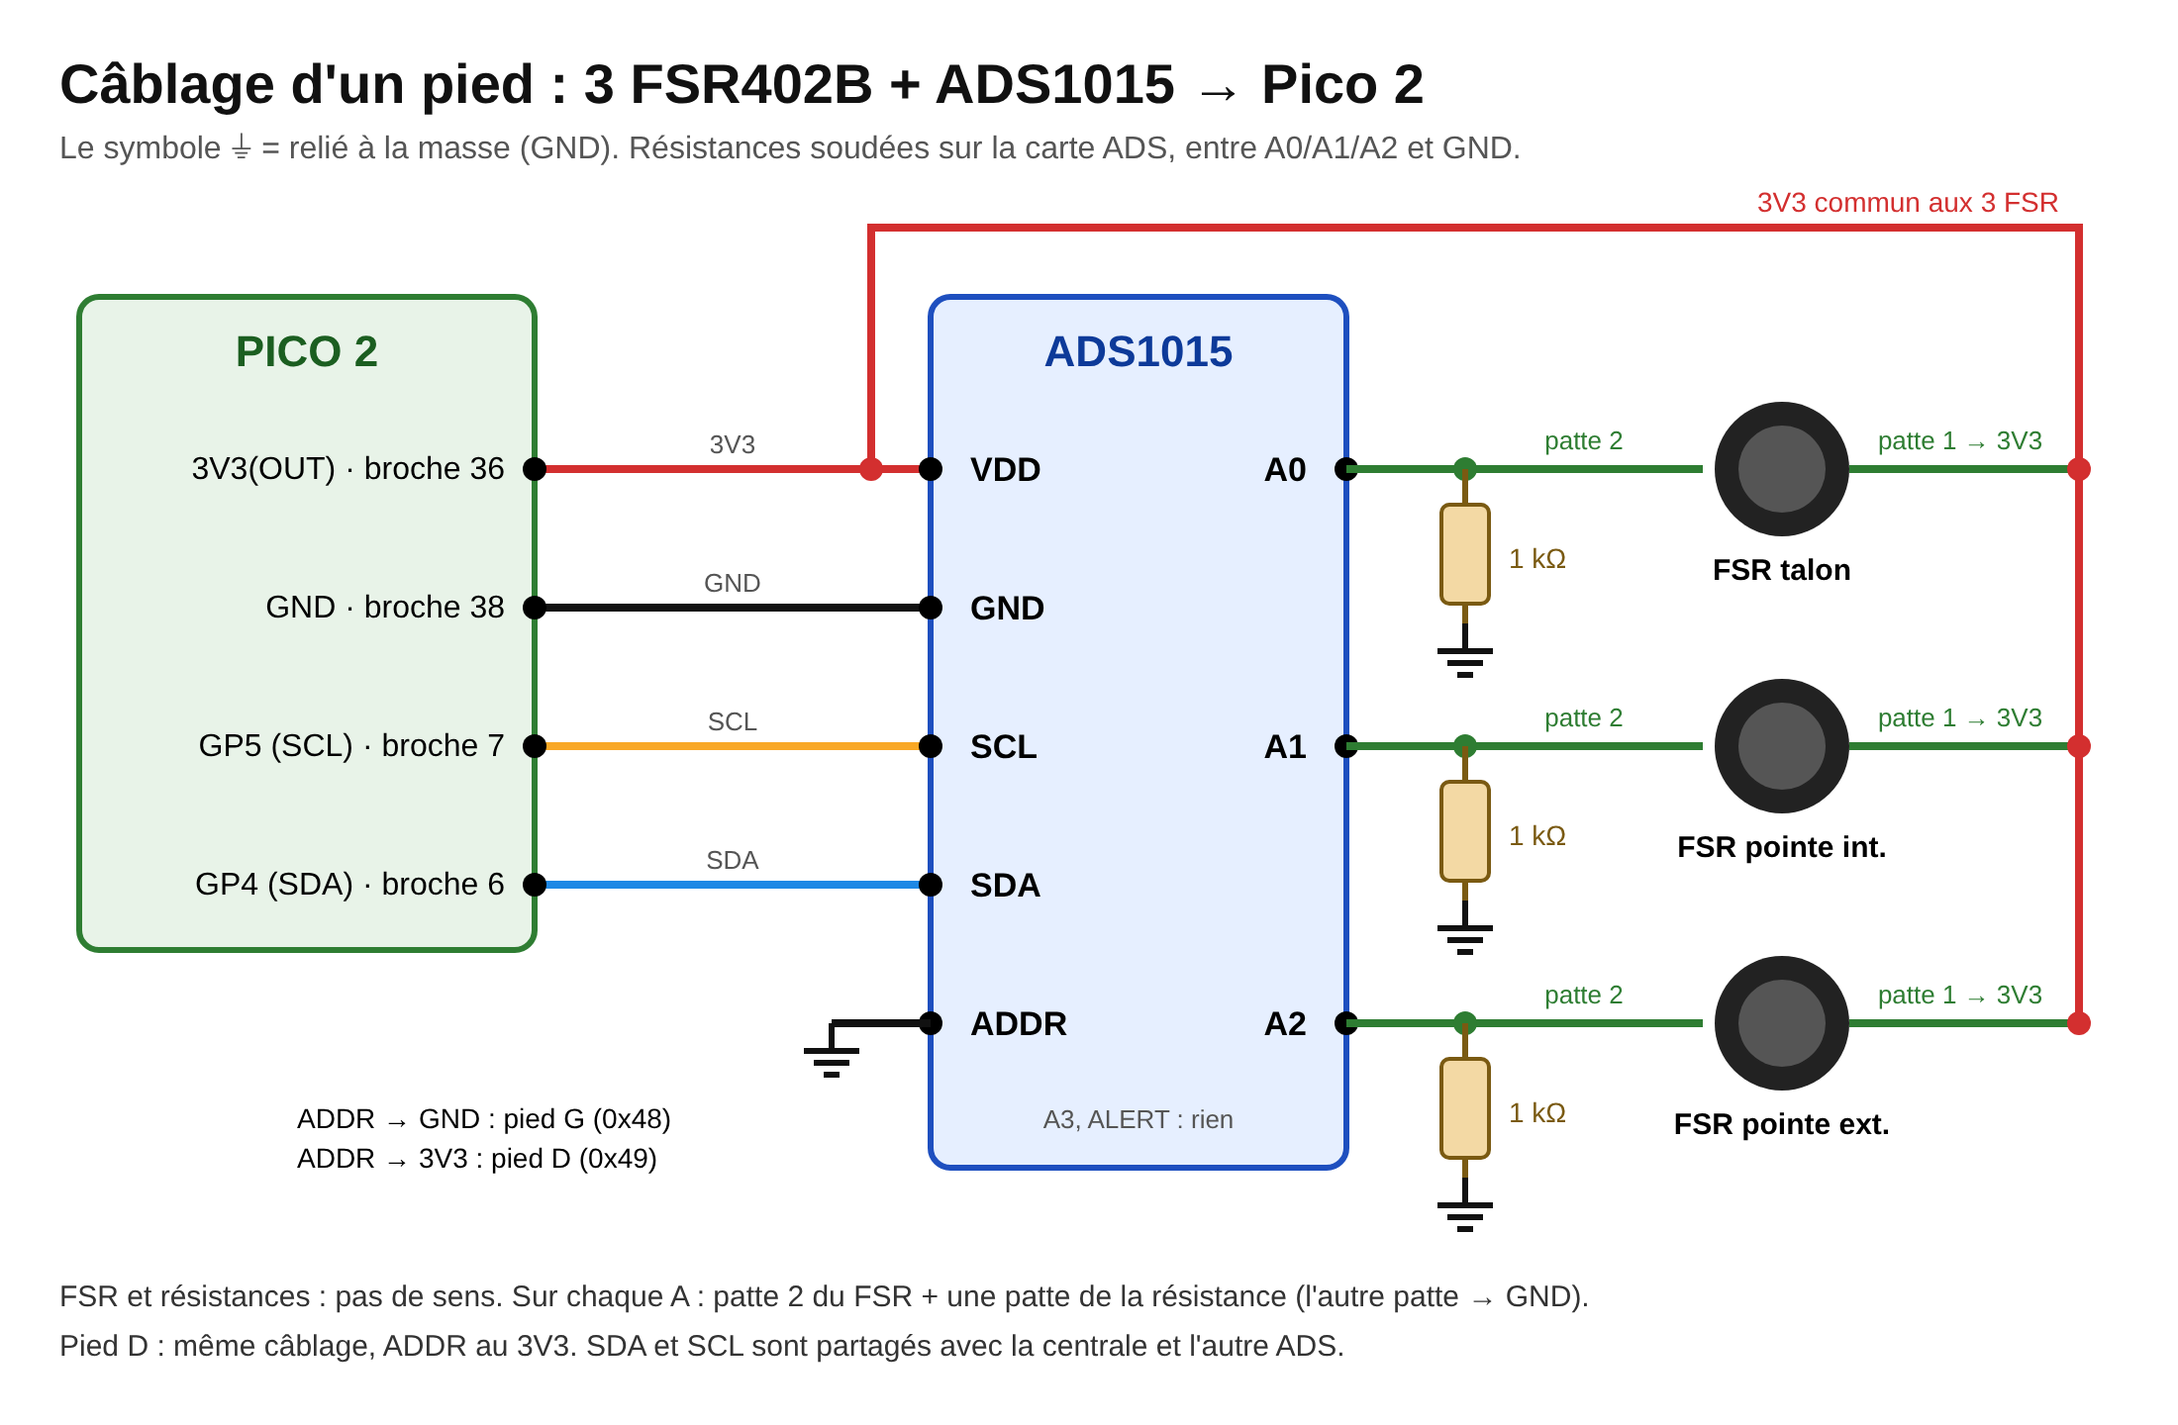
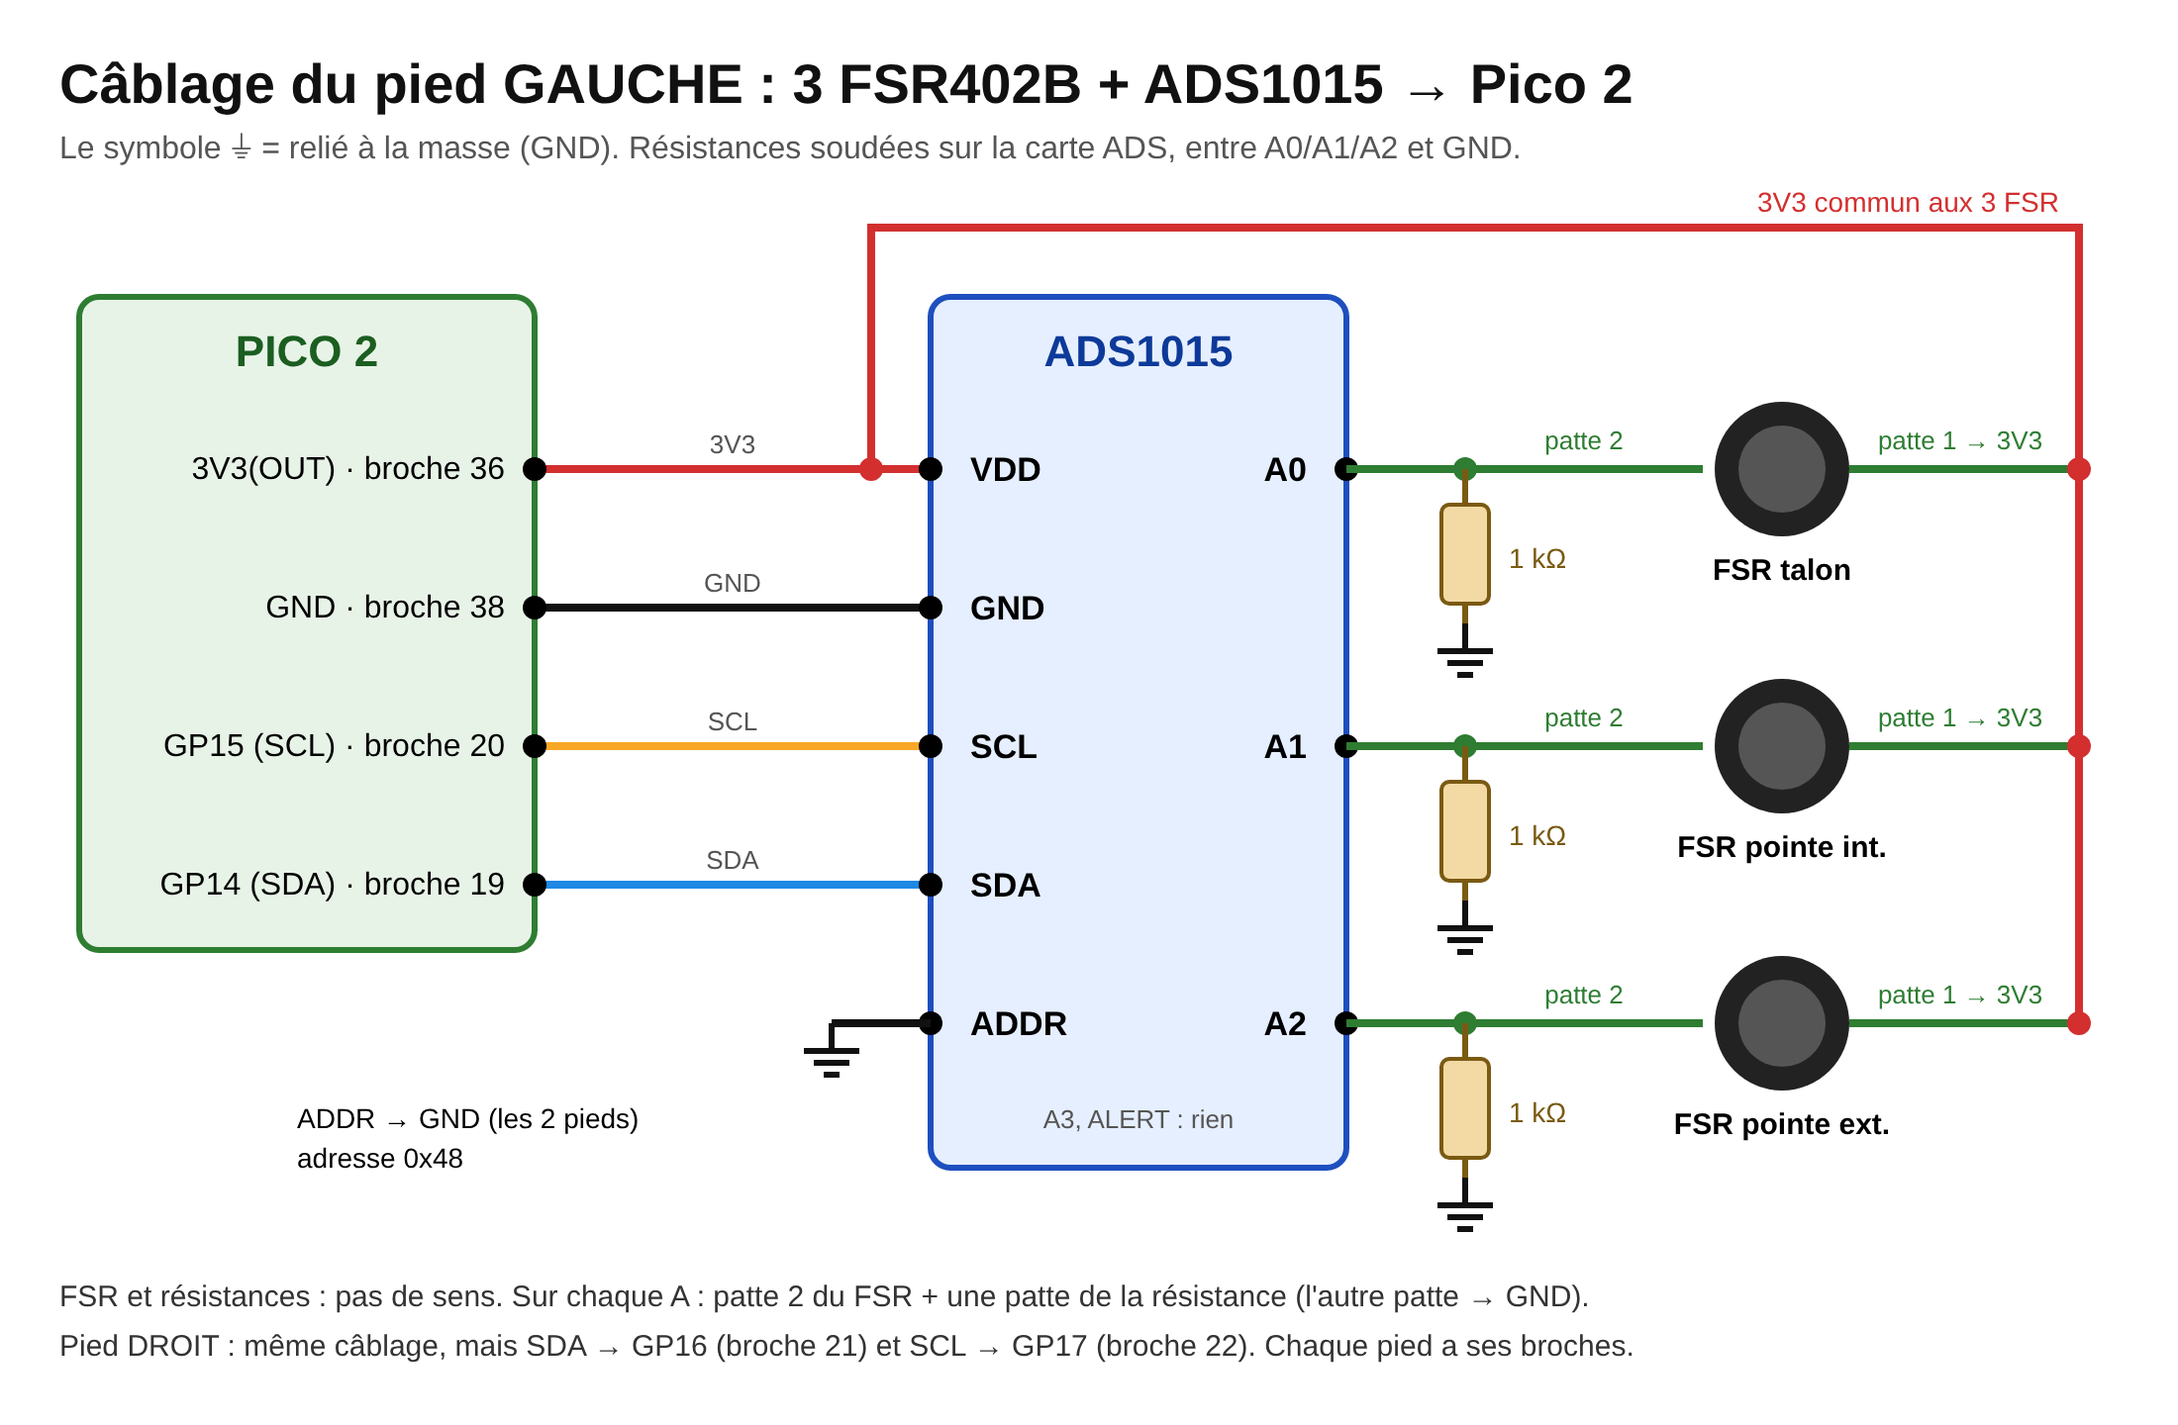
Un bus I²C par élément : centrale GP4/5, pied G GP14/15 (I²C1), pied D GP16/17 (logiciel) ; ADS1015 tous en 0x48
Claude-Session: https://claude.ai/code/session_01LXh7wU6ftDdbJqfPx2fvTi

diff --git a/docs/schema_electrique.html b/docs/schema_electrique.html
@@ -96,7 +96,7 @@ td code, .mono { font: 12.5px var(--mono); }
   <div class="cartouche" aria-label="Cartouche">
     <span>Projet</span><span>LEO-S bipède</span>
     <span>Planche</span><span>Électrique · 1/1</span>
-    <span>Rév.</span><span>J · 01/11/2026</span>
+    <span>Rév.</span><span>J2 · 09/11/2026</span>
   </div>
 </header>
 
@@ -184,8 +184,8 @@ td code, .mono { font: 12.5px var(--mono); }
 <g class="box act"><rect x="650" y="358" width="170" height="38" rx="4"/><text x="660" y="377" class="bt">2 micro-servos MG90S</text><text x="660" y="392" class="bs">cou : pan / tilt</text></g>
 <g class="box sens"><rect x="650" y="446" width="170" height="40" rx="4"/><text x="660" y="465" class="bt">MPU6050</text><text x="660" y="480" class="bs">centrale inertielle</text></g>
 <g class="box sens"><rect x="868" y="446" width="150" height="40" rx="4"/><text x="878" y="465" class="bt">2 × ToF VL53L8CX</text><text x="878" y="480" class="bs">bas · 0x30 / 0x31</text></g>
-<g class="box sens"><rect x="650" y="498" width="170" height="40" rx="4"/><text x="660" y="517" class="bt">ADS1015 pied G</text><text x="660" y="532" class="bs">3 voies sur 4</text></g>
-<g class="box sens"><rect x="650" y="550" width="170" height="40" rx="4"/><text x="660" y="569" class="bt">ADS1015 pied D</text><text x="660" y="584" class="bs">3 voies sur 4</text></g>
+<g class="box sens"><rect x="650" y="498" width="170" height="40" rx="4"/><text x="660" y="517" class="bt">ADS1015 pied G</text><text x="660" y="532" class="bs">I²C1 GP14/15 · 0x48</text></g>
+<g class="box sens"><rect x="650" y="550" width="170" height="40" rx="4"/><text x="660" y="569" class="bt">ADS1015 pied D</text><text x="660" y="584" class="bs">I²C GP16/17 · 0x48</text></g>
 <g class="box sens"><rect x="868" y="498" width="150" height="40" rx="4"/><text x="878" y="517" class="bt">3 × FSR402B</text><text x="878" y="532" class="bs">semelle G · pont 1 kΩ</text></g>
 <g class="box sens"><rect x="868" y="550" width="150" height="40" rx="4"/><text x="878" y="569" class="bt">3 × FSR402B</text><text x="878" y="584" class="bs">semelle D · pont 1 kΩ</text></g>
 <g class="box cpu"><rect x="650" y="608" width="170" height="44" rx="4"/><text x="660" y="627" class="bt">Récepteur FS-iA6B</text><text x="660" y="642" class="bs">radio FlySky</text></g>
@@ -204,7 +204,7 @@ td code, .mono { font: 12.5px var(--mono); }
 <text x="350" y="246" class="pin">SPI0 CE0 / CE1 · CSI</text>
 <text x="350" y="264" class="pin">PWM · GPIO 12/13 (cou)</text>
 <text x="350" y="282" class="pin">USB → Pico · 5 V broches 2/4</text>
-<text x="350" y="494" class="pin">I²C0 · GP4/GP5</text>
+<text x="350" y="494" class="pin">I²C GP4/5 · GP14/15 · GP16/17</text>
 <text x="350" y="512" class="pin">DShot · GP6–GP9 · LPn GP10/11</text>
 <text x="350" y="530" class="pin">UART1 bus servo · GP20/GP21</text>
 <text x="350" y="548" class="pin">iBUS · RX GP1</text>
@@ -226,8 +226,6 @@ td code, .mono { font: 12.5px var(--mono); }
 <text x="578" y="371" text-anchor="middle" class="wl wpwmt">PWM</text>
 <text x="585" y="512" text-anchor="middle" class="wl wi2ct">I²C</text>
 <text x="630" y="460" text-anchor="middle" class="wl wi2ct">0x68</text>
-<text x="630" y="512" text-anchor="middle" class="wl wi2ct">0x48</text>
-<text x="630" y="564" text-anchor="middle" class="wl wi2ct">0x49</text>
 <text x="456" y="614" text-anchor="start" class="wl wuartt">DShot × 4</text>
 <text x="591" y="600" text-anchor="start" class="wl wuartt">iBUS</text>
 </svg>
@@ -309,7 +307,9 @@ td code, .mono { font: 12.5px var(--mono); }
   <div class="tbl"><table>
     <thead><tr><th>Fonction</th><th>Broches</th><th>Branché sur</th></tr></thead>
     <tbody>
-      <tr><td>I²C0</td><td class="mono">SDA GP4 · SCL GP5</td><td>MPU6050 0x68, ADS1015 0x48 / 0x49, ToF bas 0x30 / 0x31</td></tr>
+      <tr><td>I²C0</td><td class="mono">SDA GP4 · SCL GP5</td><td>MPU6050 0x68, ToF bas 0x30 / 0x31</td></tr>
+      <tr><td>I²C1</td><td class="mono">SDA GP14 · SCL GP15</td><td>ADS1015 du pied G (0x48)</td></tr>
+      <tr><td>I²C logiciel</td><td class="mono">SDA GP16 · SCL GP17</td><td>ADS1015 du pied D (0x48) ; un bus par pied, un câble 4 fils par jambe</td></tr>
       <tr><td>LPn ToF</td><td class="mono">GP10 · GP11</td><td>allumage un par un au démarrage pour changer leur adresse (0x29 d'usine)</td></tr>
       <tr><td>DShot (PIO)</td><td class="mono">GP6 · GP7 · GP8 · GP9</td><td>ESC 4-en-1, moteurs 1 à 4</td></tr>
       <tr><td>Récepteur</td><td class="mono">VBUS (5 V) · GND</td><td>alimentation du FS-iA6B</td></tr>

diff --git a/pico/lib/brochage.py b/pico/lib/brochage.py
@@ -1,9 +1,13 @@
 # brochage.py – broches, adresses et réglages du Pico 2 de LEO-S (schéma électrique rév. J).
 # Seul fichier à modifier quand un branchement ou une calibration change.
-from machine import Pin, I2C, UART
+from machine import Pin, I2C, SoftI2C, UART
 
 # ── Broches ───────────────────────────────────────────────────────────────────
-I2C_ID, SDA, SCL, I2C_FREQ = 0, 4, 5, 400000          # MPU6050, ADS1015 ×2, ToF bas
+# Un bus I²C par élément, chacun sur ses broches : (contrôleur, SDA, SCL). "soft" = bus logiciel.
+BUS_I2C = {"imu": (0, 4, 5),                           # MPU6050 (et plus tard les ToF bas)
+           "G": (1, 14, 15),                           # ADS1015 du pied gauche
+           "D": ("soft", 16, 17)}                      # ADS1015 du pied droit
+I2C_FREQ = 400000
 UART_SERVOS, SERVO_TX, SERVO_RX = 1, 20, 21            # adaptateur bus servo, cavalier sur A
 SERVO_BAUD = 1000000
 UART_RADIO, RADIO_TX, RADIO_RX = 0, 0, 1               # FS-iA6B en iBUS (GP0 non branché)
@@ -13,9 +17,9 @@ TOF_LPN = (10, 11)                                     # ToF bas (vague 3)
 
 # ── Adresses I²C ──────────────────────────────────────────────────────────────
 MPU = 0x68
-PIEDS = {"G": 0x48, "D": 0x49}                         # ADS1015 : ADDR à GND (G), à 3V3 (D)
-NOMS_I2C = {0x68: "MPU6050", 0x69: "MPU6050 (AD0 au 3V3 ?)", 0x48: "ADS1015 pied G",
-            0x49: "ADS1015 pied D", 0x4A: "ADS1015 (ADDR sur SDA ?)", 0x4B: "ADS1015 (ADDR sur SCL ?)",
+PIEDS = {"G": 0x48, "D": 0x48}                         # ADS1015 : ADDR à GND sur les deux (bus séparés)
+NOMS_I2C = {0x68: "MPU6050", 0x69: "MPU6050 (AD0 au 3V3 ?)", 0x48: "ADS1015",
+            0x49: "ADS1015 (ADDR au 3V3)", 0x4A: "ADS1015 (ADDR sur SDA ?)", 0x4B: "ADS1015 (ADDR sur SCL ?)",
             0x29: "ToF (adresse d'usine)", 0x30: "ToF bas 1", 0x31: "ToF bas 2"}
 
 # ── Capteurs de pied ──────────────────────────────────────────────────────────
@@ -42,8 +46,15 @@ ARRET_SI_HAUT = True                                   # interrupteur vers le ha
 PERTE_RADIO_MS = 100                                   # plus de trame depuis 100 ms = ARRÊT
 
 
+def bus_i2c(nom):
+    ctrl, sda, scl = BUS_I2C[nom]
+    if ctrl == "soft":
+        return SoftI2C(sda=Pin(sda), scl=Pin(scl), freq=I2C_FREQ)
+    return I2C(ctrl, sda=Pin(sda), scl=Pin(scl), freq=I2C_FREQ)
+
+
 def i2c():
-    return I2C(I2C_ID, sda=Pin(SDA), scl=Pin(SCL), freq=I2C_FREQ)
+    return bus_i2c("imu")
 
 
 def uart_servos():

diff --git a/pico/test_sim.py b/pico/test_sim.py
@@ -161,17 +161,23 @@ class FausseUART:
 
 
 class FauxI2C:
-    def __init__(self, *a, **kw):
-        pass
+    def __init__(self, ctrl=None, sda=None, scl=None, freq=None):
+        self.cle = sda.n if sda is not None else ctrl                # le bus est identifié par sa broche SDA
+        self.dev = M.i2c.setdefault(self.cle, {})
 
     def scan(self):
-        return sorted(M.i2c)
+        return sorted(self.dev)
 
     def readfrom_mem(self, adr, reg, n):
-        return M.i2c[adr].lire(reg, n)
+        return self.dev[adr].lire(reg, n)
 
     def writeto_mem(self, adr, reg, data):
-        M.i2c[adr].ecrire(reg, data)
+        self.dev[adr].ecrire(reg, data)
+
+
+class FauxSoftI2C(FauxI2C):
+    def __init__(self, sda=None, scl=None, freq=None):
+        FauxI2C.__init__(self, None, sda, scl, freq)
 
 
 class FauxADC:
@@ -185,7 +191,8 @@ class FauxADC:
 class FauxPin:
     OUT, IN = 1, 0
 
-    def __init__(self, *a, **kw):
+    def __init__(self, n=None, *a, **kw):
+        self.n = n
         self.v = 0
 
     def value(self, v=None):
@@ -205,6 +212,7 @@ class FauxPin:
 
 machine = types.ModuleType("machine")
 machine.Pin, machine.I2C, machine.UART, machine.ADC = FauxPin, FauxI2C, FausseUART, FauxADC
+machine.SoftI2C = FauxSoftI2C
 machine.freq = lambda: 150000000
 sys.modules["machine"] = machine
 
@@ -224,11 +232,11 @@ def test():
     import brochage as B
 
     mpu, g, d = FauxMPU(), FauxADS(), FauxADS()
-    M.i2c = {0x68: mpu, 0x48: g, 0x49: d}
+    M.i2c = {4: {0x68: mpu}, 14: {0x48: g}, 16: {0x48: d}}     # un bus par élément (clé = broche SDA)
 
     # 1 – scan I²C
-    adrs, out = silencieux(etape1_pico.main)
-    assert adrs == [0x48, 0x49, 0x68] and "MPU6050" in out and "pied D" in out, out
+    trouve, out = silencieux(etape1_pico.main)
+    assert trouve == {"imu": [0x68], "G": [0x48], "D": [0x48]} and "MPU6050" in out and "pied D" in out, out
 
     # 2 – MPU6050 : biais, puis inclinaison
     biais, out = silencieux(etape2_mpu.main, tours=30)
@@ -241,7 +249,7 @@ def test():
 
     # 4 – pieds : lecture directe, puis pesées et conseil de résistance
     _, out = silencieux(etape4_pieds.main, tours=2)
-    assert "pied G (0x48)" in out and "pied D (0x49)" in out and "1.65V" in out, out
+    assert "pied G, pied D" in out and "1.65V" in out, out
     assert abs(r_fsr(1.65, 1000) - 1000) < 1 and r_fsr(0.0, 1000) is None
     fsr = {"0.5": 2000, "2": 500}                         # FSR à 0,5 kg puis 2 kg
 

diff --git a/pico/etape4_pieds.py b/pico/etape4_pieds.py
@@ -1,6 +1,7 @@
 # Étape 4 – FSR402B + ADS1015 : lecture des appuis, puis choix de la résistance du pont par des pesées.
 # Chaque FSR : une patte au 3V3, l'autre sur A0/A1/A2 de l'ADS1015 ET sur la résistance R_FSR vers la masse.
-# ADS1015 : VDD → 3V3, GND, SCL → GP5, SDA → GP4, ADDR → GND (pied G, 0x48) ou → 3V3 (pied D, 0x49).
+# ADS1015 : VDD → 3V3, GND, ADDR → GND. Chaque pied a son bus : pied G SDA → GP14 (broche 19), SCL → GP15 (broche 20) ;
+#           pied D SDA → GP16 (broche 21), SCL → GP17 (broche 22).
 #
 # MODE = "direct" : valeurs en continu (appuie au doigt).
 # MODE = "pesee"  : pose des masses connues (0,1 / 0,5 / 1 / 2 kg sur une pièce de monnaie centrée sur le FSR),
@@ -17,12 +18,12 @@ R_PONT = B.R_FSR                                # la résistance réellement sou
 E12 = (1000, 1200, 1500, 1800, 2200, 2700, 3300, 3900, 4700, 5600, 6800, 8200, 10000)
 
 
-def trouver_pieds(i2c):
-    presents = i2c.scan()
+def trouver_pieds():
     pieds = {}
     for cote, adr in B.PIEDS.items():
-        if adr in presents:
-            pieds[cote] = ADS1x15(i2c, adr, MODELE)
+        bus = B.bus_i2c(cote)
+        if adr in bus.scan():
+            pieds[cote] = ADS1x15(bus, adr, MODELE)
     return pieds
 
 
@@ -81,11 +82,11 @@ def pesee(pieds, saisie=input):
 
 
 def main(tours=None, saisie=input):
-    pieds = trouver_pieds(B.i2c())
+    pieds = trouver_pieds()
     if not pieds:
-        print("✗ Aucun ADS1015 en 0x48 ni 0x49. Vérifie VDD, GND, SDA/SCL et la broche ADDR.")
+        print("✗ Aucun ADS1015 trouvé. Vérifie VDD, GND, ADDR à GND, et SDA/SCL : GP14/GP15 (pied G), GP16/GP17 (pied D).")
         return None
-    print("ADS trouvés : " + ", ".join("pied %s (0x%02X)" % (c, a.adr) for c, a in pieds.items()))
+    print("ADS trouvés : " + ", ".join("pied %s" % c for c in pieds))
     print("Pont : %d Ω (R_PONT en haut du fichier)" % R_PONT)
     if MODE == "pesee":
         return pesee(pieds, saisie)

diff --git a/pico/etape1_pico.py b/pico/etape1_pico.py
@@ -19,12 +19,15 @@ def main():
     led.off()
     print("✓ La LED verte a clignoté 3 fois.")
 
-    adresses = B.i2c().scan()
-    if not adresses:
-        print("Bus I²C vide (normal si rien n'est encore branché sur GP4 / GP5).")
-    for a in adresses:
-        print("  0x%02X  %s" % (a, B.NOMS_I2C.get(a, "inconnu")))
-    return adresses
+    trouve = {}
+    for nom, (ctrl, sda, scl) in B.BUS_I2C.items():
+        adresses = B.bus_i2c(nom).scan()
+        trouve[nom] = adresses
+        titre = {"imu": "centrale", "G": "pied G", "D": "pied D"}.get(nom, nom)
+        print("Bus %-8s (SDA GP%d, SCL GP%d) : %s" % (titre, sda, scl, "vide" if not adresses else ""))
+        for a in adresses:
+            print("    0x%02X  %s" % (a, B.NOMS_I2C.get(a, "inconnu")))
+    return trouve
 
 
 if __name__ == "__main__":

diff --git a/pico/etape2_mpu.py b/pico/etape2_mpu.py
@@ -1,5 +1,5 @@
 # Étape 2 – centrale MPU6050 : détection, calibration du gyroscope, inclinaison en direct.
-# Branchement : VCC → 3V3 (broche 36), GND, SDA → GP4, SCL → GP5, AD0 → GND.
+# Branchement : VCC → 3V3 (broche 36), GND, SDA → GP4 (broche 6), SCL → GP5 (broche 7), AD0 → GND.
 import time
 
 import brochage as B

diff --git a/pico/README.md b/pico/README.md
@@ -32,7 +32,9 @@ Après une calibration, modifie `lib/brochage.py` sur le PC **et** téléverse-l
 
 | Broche (n°) | Fonction | Va vers |
 |---|---|---|
-| GP4 (6) · GP5 (7) | I²C0 SDA · SCL | MPU6050, ADS1015 ×2 (et plus tard les ToF) |
+| GP4 (6) · GP5 (7) | I²C0 SDA · SCL | MPU6050 (et plus tard les ToF) |
+| GP14 (19) · GP15 (20) | I²C1 SDA · SCL | ADS1015 du pied gauche |
+| GP16 (21) · GP17 (22) | I²C logiciel SDA · SCL | ADS1015 du pied droit |
 | GP20 (26) · GP21 (27) | UART1 TX · RX | adaptateur bus servo, cavalier sur **A** |
 | GP1 (2) | UART0 RX | récepteur FS-iA6B, prise iBUS |
 | GP26 (31) · AGND (33) | ADC0 | pont de la batterie 3S |
@@ -42,7 +44,7 @@ Après une calibration, modifie `lib/brochage.py` sur le PC **et** téléverse-l
 
 ## Les étapes
 
-**1 – Pico seul** · `etape1_pico.py` : la LED clignote 3 fois et le scan I²C s'affiche (vide si rien n'est branché).
+**1 – Pico seul** · `etape1_pico.py` : la LED clignote 3 fois et chacun des 3 bus I²C est scanné (centrale, pied G, pied D).
 
 **2 – MPU6050** · VCC → 3V3, GND, SDA → GP4, SCL → GP5, AD0 → GND.
 `etape2_mpu.py` : la carte posée à plat 2 s, il donne le biais du gyroscope (à copier dans `GYRO_BIAIS`) puis
@@ -51,7 +53,8 @@ l'inclinaison en direct. Vérifie que roulis et tangage suivent quand tu penches
 **3 – FSR au multimètre (sans script)** · plus de 1 MΩ au repos, quelques kΩ au doigt, quelques centaines d'Ω très appuyé.
 Pas de soudure longue sur les pattes : connecteur Dupont femelle + colle chaude, ou moins de 2 s à ~300 °C.
 
-**4 – FSR + ADS1015** · ADS : VDD → 3V3, GND, SCL → GP5, SDA → GP4, ADDR → GND (pied G, 0x48) ou → 3V3 (pied D, 0x49).
+**4 – FSR + ADS1015** · ADS : VDD → 3V3, GND, ADDR → GND (les deux). Pied G : SDA → GP14, SCL → GP15.
+Pied D : SDA → GP16, SCL → GP17. Schéma : `docs/cablage/pied_fsr.png`.
 Chaque FSR : une patte au 3V3, l'autre sur A0 (talon), A1 (pointe int.) ou A2 (pointe ext.) **et** sur la résistance
 du pont vers la masse.
 - `etape4_pieds.py` avec `MODE = "direct"` : les 3 capteurs de chaque pied en continu, appuie au doigt.
